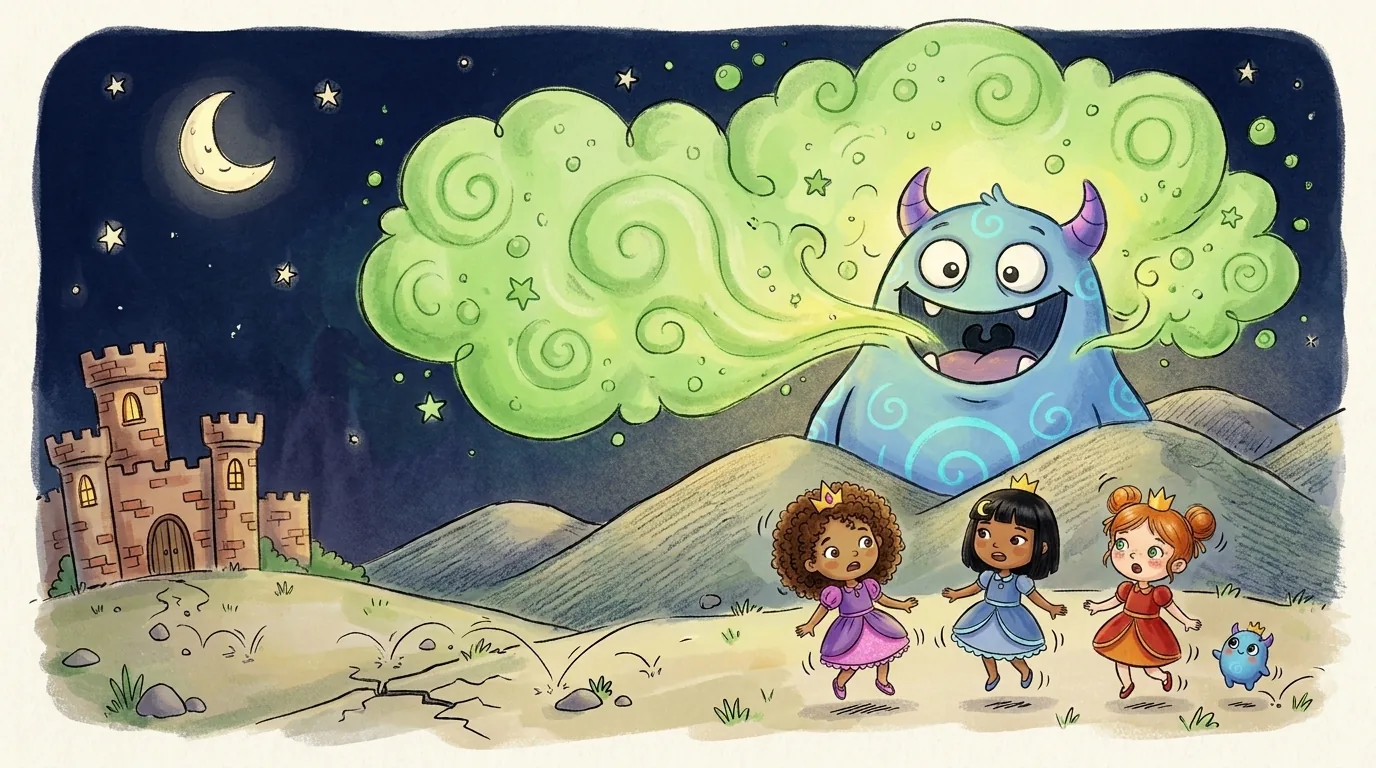
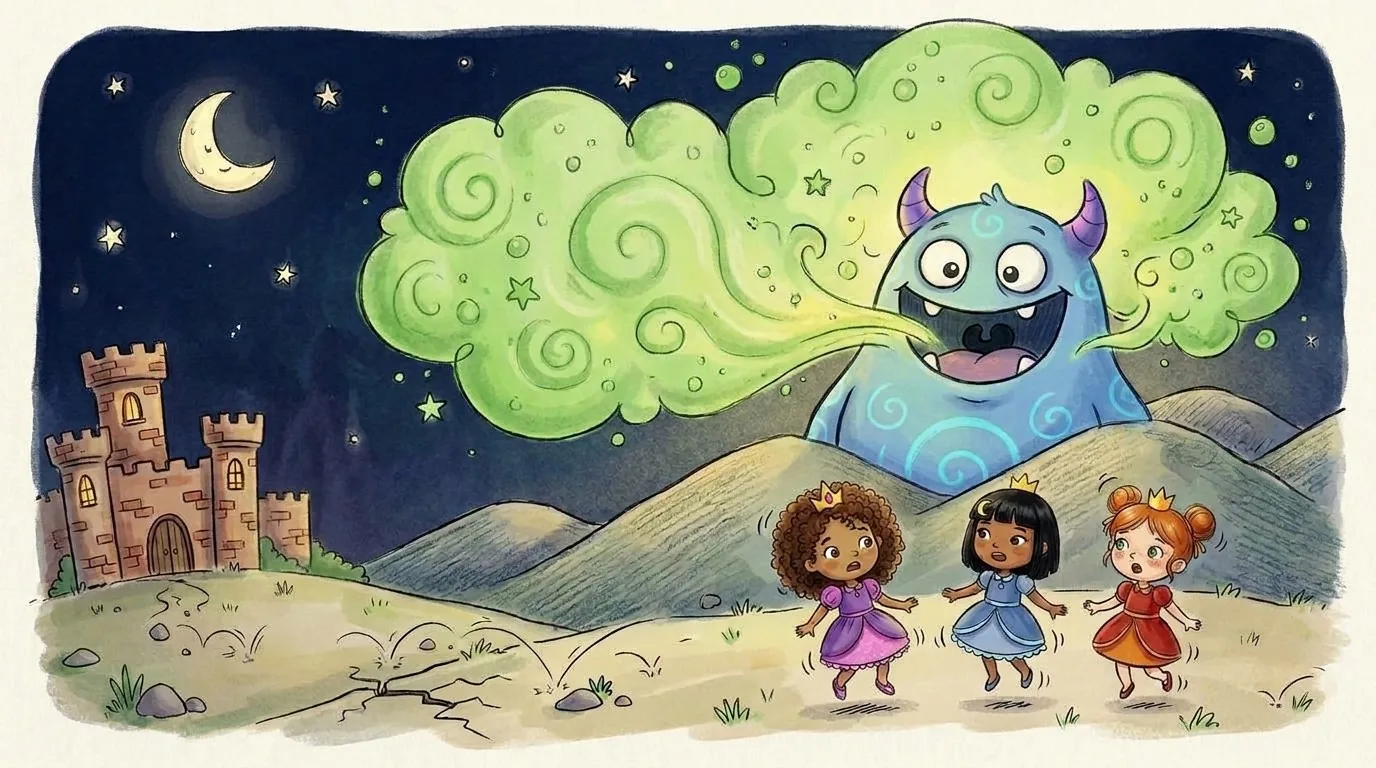
New burp, friend and end paintings for book 1, with matching descriptions

diff --git a/index.html b/index.html
@@ -13,31 +13,31 @@
 <link rel="preconnect" href="https://fonts.gstatic.com" crossorigin>
 <link rel="stylesheet" href="https://fonts.googleapis.com/css2?family=Andika:ital,wght@0,400;0,700;1,400&family=Grandstander:wght@600;800;900&display=swap">
 <!-- ?v= makes phones fetch fresh files after each update: change it whenever css/ or js/ changes -->
-<link rel="stylesheet" href="css/reader.css?v=2026.11.05-4">
+<link rel="stylesheet" href="css/reader.css?v=2026.11.05-5">
 
 <!-- Engine -->
-<script defer src="js/engine/core.js?v=2026.11.05-4"></script>
-<script defer src="js/engine/themes.js?v=2026.11.05-4"></script>
-<script defer src="js/engine/audio.js?v=2026.11.05-4"></script>
-<script defer src="js/engine/fx.js?v=2026.11.05-4"></script>
-<script defer src="js/engine/backdrop.js?v=2026.11.05-4"></script>
-<script defer src="js/engine/items.js?v=2026.11.05-4"></script>
-<script defer src="js/engine/ocarina.js?v=2026.11.05-4"></script>
+<script defer src="js/engine/core.js?v=2026.11.05-5"></script>
+<script defer src="js/engine/themes.js?v=2026.11.05-5"></script>
+<script defer src="js/engine/audio.js?v=2026.11.05-5"></script>
+<script defer src="js/engine/fx.js?v=2026.11.05-5"></script>
+<script defer src="js/engine/backdrop.js?v=2026.11.05-5"></script>
+<script defer src="js/engine/items.js?v=2026.11.05-5"></script>
+<script defer src="js/engine/ocarina.js?v=2026.11.05-5"></script>
 <!-- Art: shared cast, then scenery per setting -->
-<script defer src="js/art/common.js?v=2026.11.05-4"></script>
-<script defer src="js/art/ui.js?v=2026.11.05-4"></script>
-<script defer src="js/art/kingdom.js?v=2026.11.05-4"></script>
-<script defer src="js/art/ocean.js?v=2026.11.05-4"></script>
-<script defer src="js/art/sea-friends.js?v=2026.11.05-4"></script>
-<script defer src="js/art/treasures.js?v=2026.11.05-4"></script>
+<script defer src="js/art/common.js?v=2026.11.05-5"></script>
+<script defer src="js/art/ui.js?v=2026.11.05-5"></script>
+<script defer src="js/art/kingdom.js?v=2026.11.05-5"></script>
+<script defer src="js/art/ocean.js?v=2026.11.05-5"></script>
+<script defer src="js/art/sea-friends.js?v=2026.11.05-5"></script>
+<script defer src="js/art/treasures.js?v=2026.11.05-5"></script>
 <!-- Books: add a new book by adding its file(s) here -->
-<script defer src="js/books/sparkle-swords.js?v=2026.11.05-4"></script>
-<script defer src="js/books/mermaid-city.story.js?v=2026.11.05-4"></script>
-<script defer src="js/books/mermaid-city.js?v=2026.11.05-4"></script>
+<script defer src="js/books/sparkle-swords.js?v=2026.11.05-5"></script>
+<script defer src="js/books/mermaid-city.story.js?v=2026.11.05-5"></script>
+<script defer src="js/books/mermaid-city.js?v=2026.11.05-5"></script>
 <!-- Reader boots last -->
-<script defer src="js/engine/sketch.js?v=2026.11.05-4"></script>
-<script defer src="js/engine/raster.js?v=2026.11.05-4"></script>
-<script defer src="js/engine/reader.js?v=2026.11.05-4"></script>
+<script defer src="js/engine/sketch.js?v=2026.11.05-5"></script>
+<script defer src="js/engine/raster.js?v=2026.11.05-5"></script>
+<script defer src="js/engine/reader.js?v=2026.11.05-5"></script>
 </head>
 <body>
 <canvas class="backdrop" id="backdrop" aria-hidden="true"></canvas>

diff --git a/js/books/sparkle-swords.js b/js/books/sparkle-swords.js
@@ -95,7 +95,7 @@
       },
       {
         id: 'burp', title: 'BUUURP!',
-        alt: 'The sky is dark. A huge blue demon with purple horns and a goofy grin rises behind the hills and burps a green cloud.',
+        alt: 'The sky is dark. A huge blue demon with purple horns and a goofy grin rises behind the hills and burps a giant green cloud, while the ground shakes under the three princesses.',
         art: () => A.sky('dark') + A.castle(200, 455, .85, true) + A.grumbo({ x: 560, y: 540, s: 1.25, mood: 'grin' }) + A.ground(true) +
           `<g class="floaty"><g stroke="#3f7a1f" stroke-width="3"><circle cx="330" cy="150" r="46" fill="#9be15d"/><circle cx="290" cy="120" r="30" fill="#b5ef6e"/><circle cx="370" cy="115" r="26" fill="#86d04a"/></g></g>` +
           A.word(330, 165, 40, 'BURP!', '#fff', -8) + A.word(120, 475, 30, 'RUMBLE', '#ffc83d', -4) + A.word(700, 480, 30, 'RUMBLE', '#ffc83d', 5),
@@ -210,7 +210,7 @@
       },
       {
         id: 'friend', title: 'A New Friend',
-        alt: 'The three princesses waving next to tiny Grumbo, who now wears a tiny crown and has a tiny drum.',
+        alt: 'At sunset, Sophia holds tiny Grumbo in her hand. He wears a teeny crown and has a teeny drum, and Luna and Ruby smile at him. Little hearts float in the sky.',
         art: () => A.sky('dusk') + A.ground(false) +
           A.princess({ ...LUNA, x: 140, y: 478, s: 1, pose: 'wave', cls: 'sway' }) +
           A.princess({ ...SOPHIA, x: 300, y: 486, s: 1.2, pose: 'wave', cls: 'sway' }) +
@@ -224,7 +224,7 @@
       },
       {
         id: 'end', title: 'The End', fx: 'sparkles',
-        alt: 'The castle at night under the golden Glitter Shield. The princesses rest on a blanket, tiny Grumbo drums on a rock, and a mermaid peeks out of a pond.',
+        alt: 'The castle at night under the golden Glitter Shield. The three princesses sit on a blanket singing sleepily, tiny Grumbo drums on a rock, and a mermaid secretly peeks out from the reeds of a pond.',
         art: () => A.sky('night') + A.moon(660, 85) + A.castle(400, 445, 1.1, true) + A.shield(400, 450, 330, 340, 1) + A.ground(true) +
           A.zzz(250, 200, 30) + A.note(330, 150, 26, '#ffd65a') + A.note(480, 170, 24, '#fff', '♫') +
           A.grumbo({ x: 300, y: 474, s: .06, mood: 'cute', crown: true }) + A.word(300, 435, 18, 'squeak!', '#5fc8ff', -8, '#fff') +
